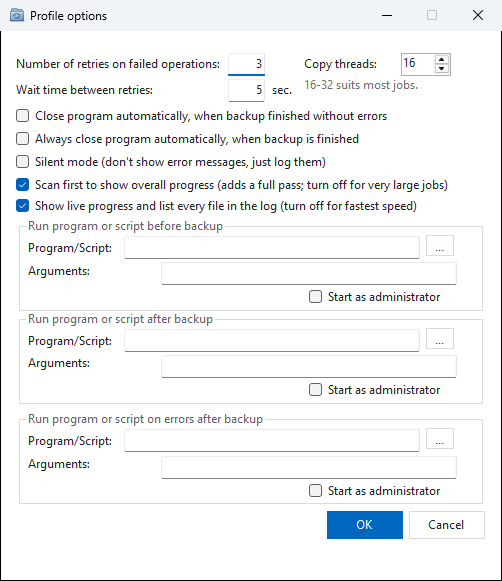
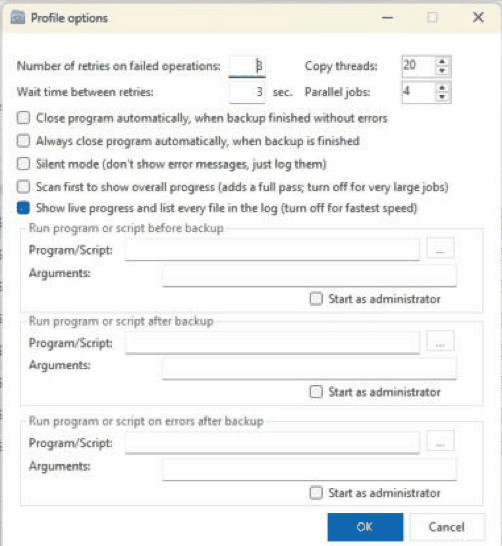
Fix Overview tab layout, stop logging target write-test cleanup, new screenshots
The Overview tab's controls were placed before the tab had its real size,
so the run log ran past the bottom of the tab. They are now docked.

The run log listed "Deleting file ...\test<guid>.dat" for RoboG's own
target write tests, which looked like target files being deleted.
Those deletions are no longer logged.

New screenshots of Profile options (Parallel jobs) and a job tab.

Claude-Session: https://claude.ai/code/session_01WU1SJcS8Sxf8EKfDcgT3Eb

Changed region(s): [[0.0, 0.0, 1.0, 1.0], [0.8665, 0.8095, 0.8964, 0.8407]]

diff --git a/frmMain.cs b/frmMain.cs
@@ -129,14 +129,16 @@ namespace RoboG
 			lstJobs.Columns.Add("Speed", 85, HorizontalAlignment.Right);
 			lstJobs.Columns.Add("Errors", 60, HorizontalAlignment.Right);
 			lstJobs.DoubleClick += new EventHandler(lstJobs_DoubleClick);
-			lstJobs.Bounds = new Rectangle(8, 8, 752, 170);
-			lstJobs.Anchor = AnchorStyles.Top | AnchorStyles.Left | AnchorStyles.Right;
+			lstJobs.Dock = DockStyle.Top;
+			lstJobs.Height = 170;
 
+			// Docked rather than placed, so the layout fits whatever size the tab ends up (window size, DPI).
 			Label lblLog = new Label();
 			lblLog.Text = "Run log";
 			lblLog.ForeColor = Theme.TextMuted;
-			lblLog.Bounds = new Rectangle(8, 186, 300, 18);
-			lblLog.Anchor = AnchorStyles.Top | AnchorStyles.Left;
+			lblLog.Dock = DockStyle.Top;
+			lblLog.Height = 28;
+			lblLog.Padding = new Padding(0, 8, 0, 0);
 
 			txtLog = new TextBox();
 			txtLog.Multiline = true;
@@ -145,12 +147,12 @@ namespace RoboG
 			txtLog.ScrollBars = ScrollBars.Both;
 			txtLog.Font = new Font("Consolas", 9F);
 			txtLog.BorderStyle = BorderStyle.FixedSingle;
-			txtLog.Bounds = new Rectangle(8, 206, 752, 140);
-			txtLog.Anchor = AnchorStyles.Top | AnchorStyles.Bottom | AnchorStyles.Left | AnchorStyles.Right;
+			txtLog.Dock = DockStyle.Fill;
 
-			_OverviewTab.Controls.Add(lstJobs);
-			_OverviewTab.Controls.Add(lblLog);
+			// Docking runs from the last-added control to the first: list at the top, then the caption, then the log fills the rest.
 			_OverviewTab.Controls.Add(txtLog);
+			_OverviewTab.Controls.Add(lblLog);
+			_OverviewTab.Controls.Add(lstJobs);
 			tabJobs.TabPages.Add(_OverviewTab);
 		}
 

diff --git a/Directory.cs b/Directory.cs
@@ -103,7 +103,7 @@ namespace RoboG {
       String TestFile = TestDir + ".dat";
       try {
         using(System.IO.File.Create(Path + TestFile)) {};
-        File.Delete(Path + TestFile);
+        System.IO.File.Delete(Path + TestFile); // RoboG's own test file: not logged.
         Directory.Create(Path + TestDir); // Was created relative to the working directory, not the target.
         Directory.Delete(Path + TestDir, false);
         return true;
@@ -141,7 +141,7 @@ namespace RoboG {
           WinAPI.SetFileAttributes(UNCPath, (uint) System.IO.FileAttributes.Normal); //Cannot delete file if it is readonly
         } catch {}
         try {
-          File.Delete(UNCPath);
+          WinAPI.DeleteFile(UNCPath); // RoboG's own test file: not logged.
         } catch {}
       }
     }

diff --git a/README.md b/README.md
@@ -36,6 +36,8 @@ Unleash RoboCopy's power: Access RoboCopy's advanced features without the comman
 
 **Sync progress, job tab**: one tab per job, with its own progress bar, the folder and file being copied, and that job's log. Tab titles show each job's state at a glance (`Photos · 45%`, `· waiting`, `· done`, `· failed`).
 
+![Progress window, tab of one job](screenshots/sync-progress-job.png "Sync progress: one job")
+
 **Edit sync job**
 
 ![Edit sync job dialog](screenshots/edit-job.png "Edit sync job")
